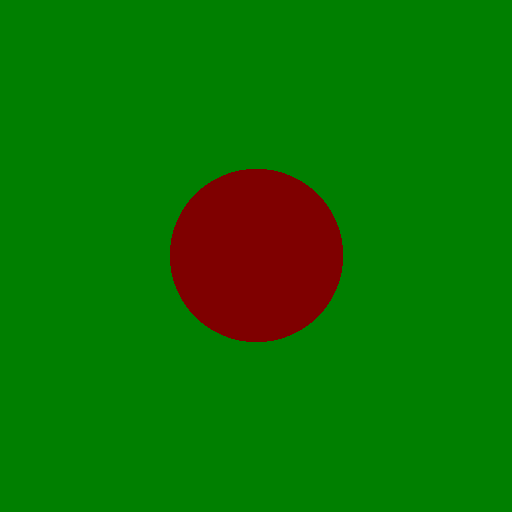
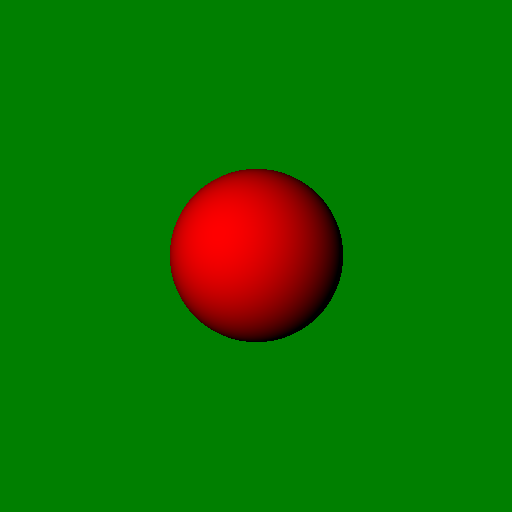
测试球体在一个点光源中的渲染结果。

Changed region(s): [[0.3125, 0.3125, 0.6875, 0.6875]]

diff --git a/ForCommonClasses/ForCommonClasses.cpp b/ForCommonClasses/ForCommonClasses.cpp
@@ -22,6 +22,7 @@
 #include "../CommonClasses/Scene.h"
 #include "../CommonClasses/Polygon.h"
 #include "../CommonClasses/ColorTemplate.h"
+#include "../CommonClasses/Light.h"
 #pragma comment(lib, "CommonClasses.lib")
 
 
@@ -1341,11 +1342,15 @@ TEST_MODULE_START
 		*/
 		Scene scene;
 
+        vector3 pointLightPosition(1.0f, 3.0f, 3.0f);
+        RGB pointLightColor = RGB::WHITE;
+        Light pointLight(pointLightPosition, pointLightColor);
+
 		/*!
 			\brief set a sphere to render.
 		*/
 		auto tsph = std::make_unique<Sphere>(vector3(0.0f, 0.0f, 0.0f), 1.0f);
-        tsph->m_kDiffuse = RGB::RED * 0.5f; // give the sphere a dark red
+        tsph->m_kDiffuse = RGB::RED; // give the sphere a red
 
         scene.Add(std::move(tsph));
 
@@ -1371,7 +1376,6 @@ TEST_MODULE_START
 
 		HitRecord hitRec;
 		Ray viewRay;
-		Ray toLightRay;
 		for (unsigned int i = 0; i < camera.m_film->m_width; ++i)
 		{
 			for (unsigned int j = 0; j < camera.m_film->m_height; ++j)
@@ -1382,7 +1386,8 @@ TEST_MODULE_START
 
 				if (scene.Hit(viewRay, 0.0f, 1000.0f, &hitRec))
 				{
-                    RGB color(dummyLightDiffuse * hitRec.m_kDiffuse);
+                    vector3 toLight = pointLight.ToMeFrom(hitRec.m_hitPoint);
+                    RGB color = hitRec.m_kDiffuse * std::max(0.0f, hitRec.m_normal * toLight);
 					camera.IncomeLight(i, j, color);
 				}
 				else
